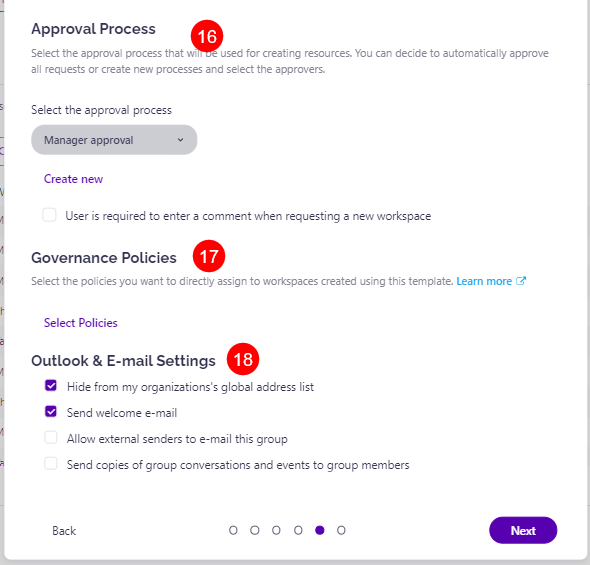
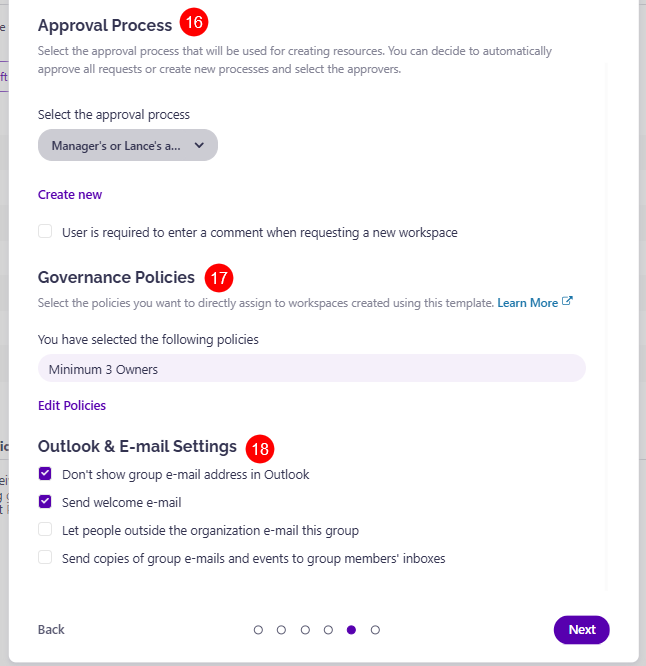
provisioning text+image fix

diff --git a/docs/governance-and-automation/provisioning/templates.md b/docs/governance-and-automation/provisioning/templates.md
@@ -149,10 +149,10 @@ Read more about Approval processes and how to create custom ones in this [articl
 Read more about setting up these governance policies and customizing them to your needs [here](../automated-workflows/set-up-policies.md).
 
 * **Outlook & Email Settings (18)** – define if the newly created workspace will:
-  * Be **hidden** from your organization's global address list
+  * **Not show** the group e-mail address in Outlook
   * Send a **welcome e-mail**
   * If a **service account is added to the template**, two additional options are available:
-    * Allow external senders to e-mail this group
+    * Let people outside the organization e-mail this group
     * Send copies of group conversations and events to group members
 
 ![New Teams Template Dialog - Step 5](../../../static/img/provisioning-templates-teams-dialog-step-5.png)
